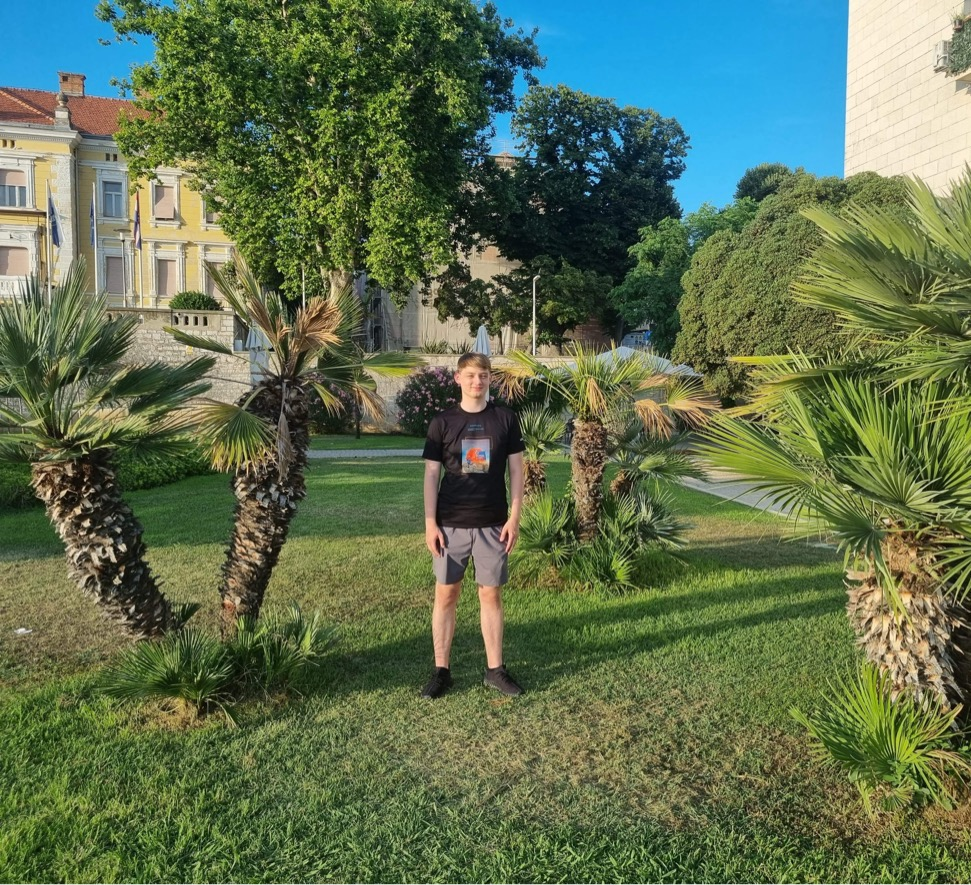
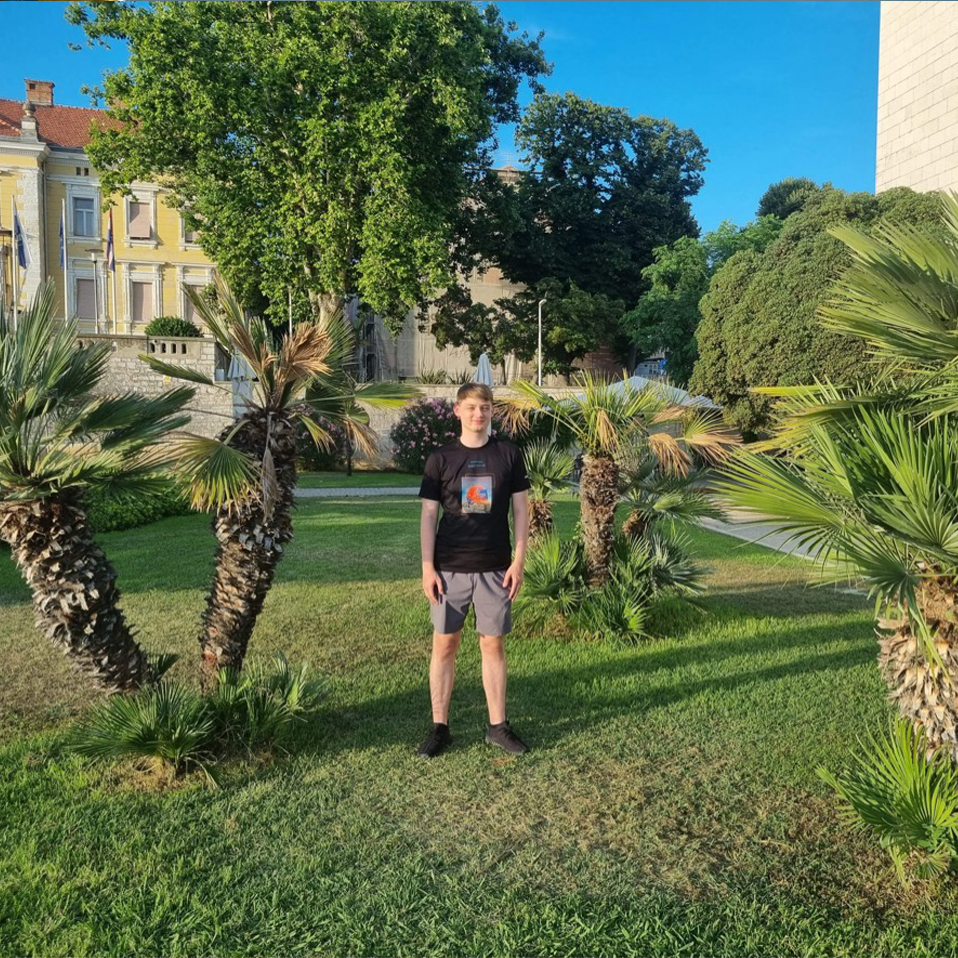
Fixed image sizing and fixed alt text

diff --git a/personal-experience.html b/personal-experience.html
@@ -91,7 +91,7 @@
                 </div>
             </li>
             <li class="timeline-inverted">
-                <div class="timeline-image"><img class="rounded-circle img-fluid" src="assets/img/2014.jpg" alt="Standing infront a boat at a Croatian dock" /></div>
+                <div class="timeline-image"><img class="rounded-circle img-fluid" src="assets/img/2014.jpg" alt="Laying on a beach inflatable" /></div>
                 <div class="timeline-panel">
                     <div class="timeline-heading">
                         <h4>2014</h4>
